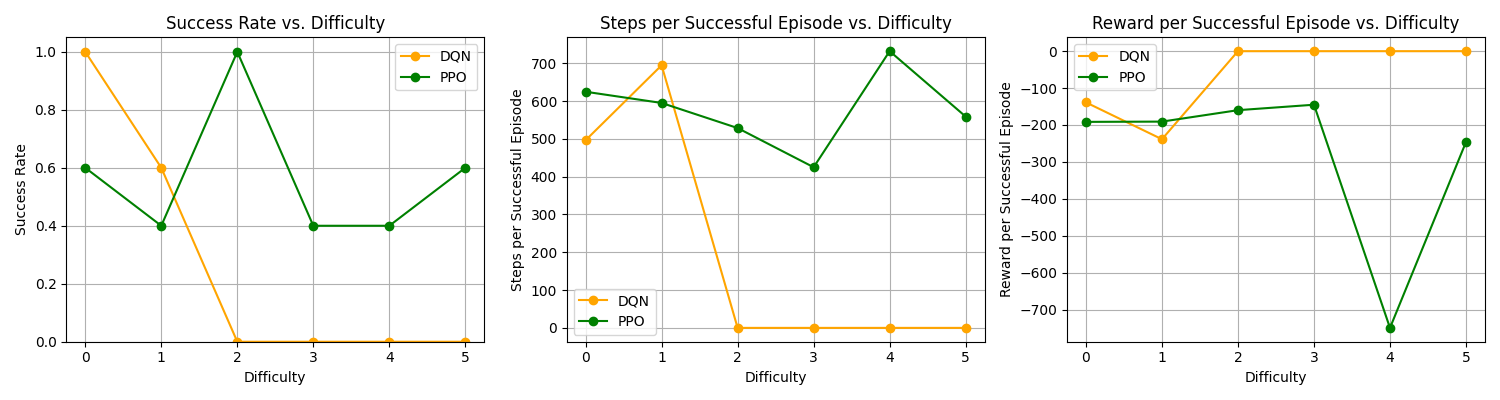
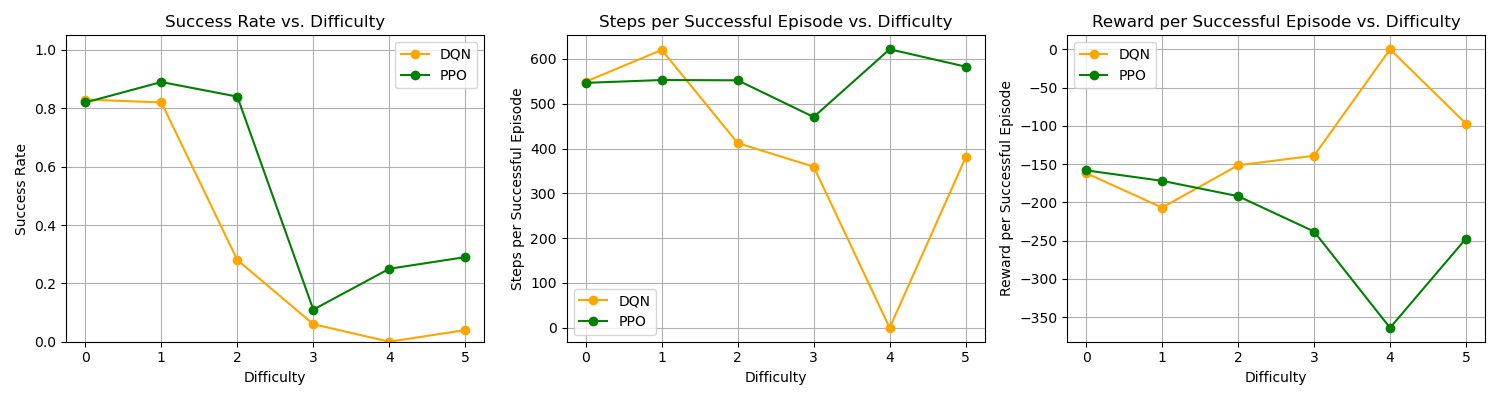
new experiments after bugfix joep  dqn_new ppo2500

diff --git a/experiments_dqn_ppo.py b/experiments_dqn_ppo.py
@@ -76,7 +76,7 @@ def experiment_stochasticity(agents, levels=(0, 0.02, 0.05, 0.1, 0.2, 0.5), reps
             all_rewards.append(rewards_successful)
         all_results.append((success_rates, avg_steps, std_steps, avg_rewards, std_rewards, all_steps, all_rewards))
     plot_results(
-        levels, all_results, "Stochasticity", "stochasticity_plot.png", boxplot=True
+        levels, all_results, "Stochasticity", "stochasticity_plot.png", boxplot=False
     )
     append_to_txt("Stochasticity", levels, all_results)
 
@@ -160,7 +160,7 @@ def experiment_target_distance(agents, reps=20):
             all_rewards.append(rewards_successful)
         all_results.append((success_rates, avg_steps, std_steps, avg_rewards, std_rewards, all_steps, all_rewards))
     plot_results(
-        ["Small", "Medium", "Large", "Random"], all_results, "Distance", "target_distance_plot.png", boxplot=True
+        ["Small", "Medium", "Large", "Random"], all_results, "Distance", "target_distance_plot.png", boxplot=False
     )
     append_to_txt("Distance", distance_levels, all_results)
 
@@ -244,7 +244,7 @@ def evaluate(model_path1: Path, model_path2: Path):
     agent2.load(model_path2)
 
     agents = [agent1, agent2]
-    reps = 5
+    reps = 100
     print("Agents Loaded Successfully!")
     experiment_stochasticity(agents, reps=reps)
     print("Experiment Stochasticity Finished!")
@@ -255,8 +255,8 @@ def evaluate(model_path1: Path, model_path2: Path):
 
 
 
-    # Following command can was used on 24-6-2025 22:00:
-    # python experiments_dqn_ppo.py .\models\dqn_new.pth.pth .\models\ppo_after_training_2500_final.pth
+    # Following command  was used on 24-6-2025 21:38:
+    # python experiments_dqn_ppo.py .\models\dqn_new.pth .\models\ppo_after_training_2500_final.pth
     # experiments were run on reps 100
 
 
